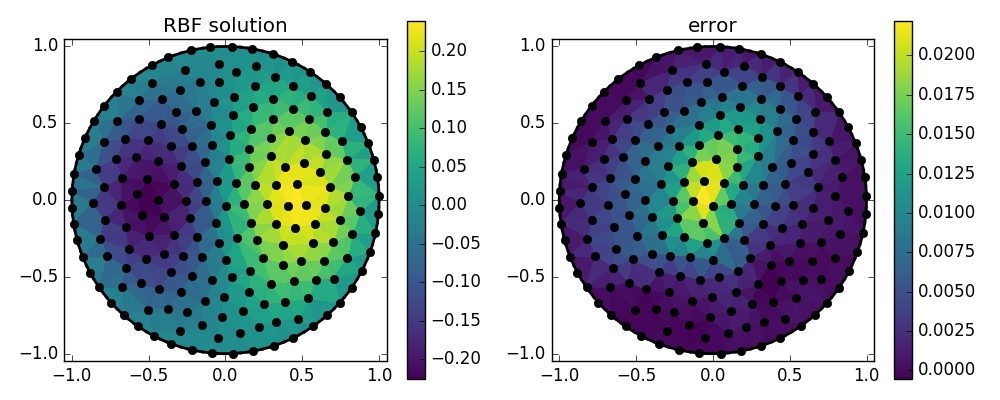
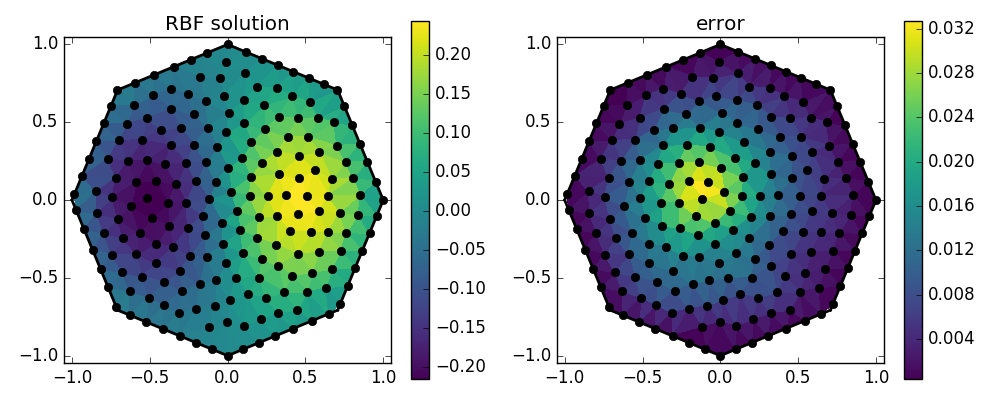
added 3d examp,e

diff --git a/demo/pde/spectral/2d/laplacian.py b/demo/pde/spectral/2d/laplacian.py
@@ -13,54 +13,51 @@ import rbf.basis
 import matplotlib.pyplot as plt
 from rbf.nodes import make_nodes
 from matplotlib import cm
+import sympy
+import rbf.domain
+
+# total number of nodes
+N = 100
+basis = rbf.basis.phs3
+
 # set default cmap to viridis if you have it
 if 'viridis' in vars(cm):
   plt.rcParams['image.cmap'] = 'viridis'
 
-def true_soln(pnts):
-  # true solution with has zeros on the unit circle
-  r = np.sqrt(pnts[:,0]**2 + pnts[:,1]**2)
-  soln = (1 - r)*np.sin(pnts[:,0])*np.cos(pnts[:,1])
-  return soln 
+# symbolic definition of the solution
+x,y = sympy.symbols('x,y')
+r = sympy.sqrt(x**2 + y**2)
+true_soln_sym = (1-r)*sympy.sin(x)*sympy.cos(y)
+# numerical solution
+true_soln = sympy.lambdify((x,y),true_soln_sym,'numpy')
 
-def forcing(pnts):
-  # laplacian of the true solution (forcing term)
-  x = pnts[:,0]
-  y = pnts[:,1]
-  out = ((2*x**2*np.sin(x)*np.cos(y) - 
-          2*x*np.cos(x)*np.cos(y) + 
-          2*y**2*np.sin(x)*np.cos(y) + 
-          2*y*np.sin(x)*np.sin(y) - 
-          2*np.sqrt(x**2 + y**2)*np.sin(x)*np.cos(y) - 
-          np.sin(x)*np.cos(y))/np.sqrt(x**2 + y**2))
-
-  return out
-
+# symbolic forcing term
+forcing_sym = true_soln_sym.diff(x,x) + true_soln_sym.diff(y,y)
+# numerical forcing term
+forcing = sympy.lambdify((x,y),forcing_sym,'numpy')
 
 # define a circular domain
-t = np.linspace(0.0,2*np.pi,100)
-vert = np.array([np.cos(t),np.sin(t)]).T
-smp = np.array([np.arange(100),np.roll(np.arange(100),-1)]).T
+vert,smp = rbf.domain.circle()
 
-# create the nodes
-N = 100
 nodes,smpid = make_nodes(N,vert,smp)
+# smpid describes which boundary simplex, if any, the nodes are 
+# attached to. If it is -1, then the node is in the interior
 boundary, = (smpid>=0).nonzero()
-
-# basis function used to solve this PDE
-basis = rbf.basis.phs3
+interior, = (smpid==-1).nonzero()
 
 # create the left-hand-side matrix which is the Laplacian of the basis 
 # function for interior nodes and the undifferentiated basis functions 
 # for the boundary nodes
-A  = basis(nodes,nodes,diff=(2,0)) 
-A += basis(nodes,nodes,diff=(0,2)) 
+A = np.zeros((N,N))
+A[interior]  = basis(nodes[interior],nodes,diff=[2,0]) 
+A[interior] += basis(nodes[interior],nodes,diff=[0,2]) 
 A[boundary,:] = basis(nodes[boundary],nodes)
 
 # create the right-hand-side vector, consisting of the forcing term 
 # for the interior nodes and zeros for the boundary nodes
-d = forcing(nodes) 
-d[boundary] = 0.0 
+d = np.zeros(N)
+d[interior] = forcing(nodes[interior,0],nodes[interior,1]) 
+d[boundary] = true_soln(nodes[boundary,0],nodes[boundary,1]) 
 
 # find the RBF coefficients that solve the PDE
 coeff = np.linalg.solve(A,d)
@@ -84,7 +81,7 @@ for s in smp:
 fig.colorbar(p,ax=ax[0])
 
 ax[1].set_title('error')
-p = ax[1].tripcolor(itp[:,0],itp[:,1],soln - true_soln(itp))
+p = ax[1].tripcolor(itp[:,0],itp[:,1],soln - true_soln(itp[:,0],itp[:,1]))
 for s in smp:
   ax[1].plot(vert[s,0],vert[s,1],'k-',lw=2)
 

diff --git a/demo/pde/fd/3d/laplacian.py b/demo/pde/fd/3d/laplacian.py
@@ -38,7 +38,7 @@ def scatter_contour(nodes,vals,**kwargs):
 
 
 # total number of nodes
-N = 20000
+N = 500
 
 # symbolic definition of the solution
 x,y,z = sympy.symbols('x,y,z')
@@ -54,7 +54,7 @@ forcing = sympy.lambdify((x,y,z),forcing_sym,'numpy')
 
 # smpid describes which boundary simplex, if any, the nodes are 
 # attached to. If it is -1, then the node is in the interior
-vert,smp = rbf.domain.sphere(3)
+vert,smp = rbf.domain.sphere()
 nodes,smpid = make_nodes(N,vert,smp)
 interior, = np.nonzero(smpid==-1)
 boundary, = np.nonzero(smpid>=0)
